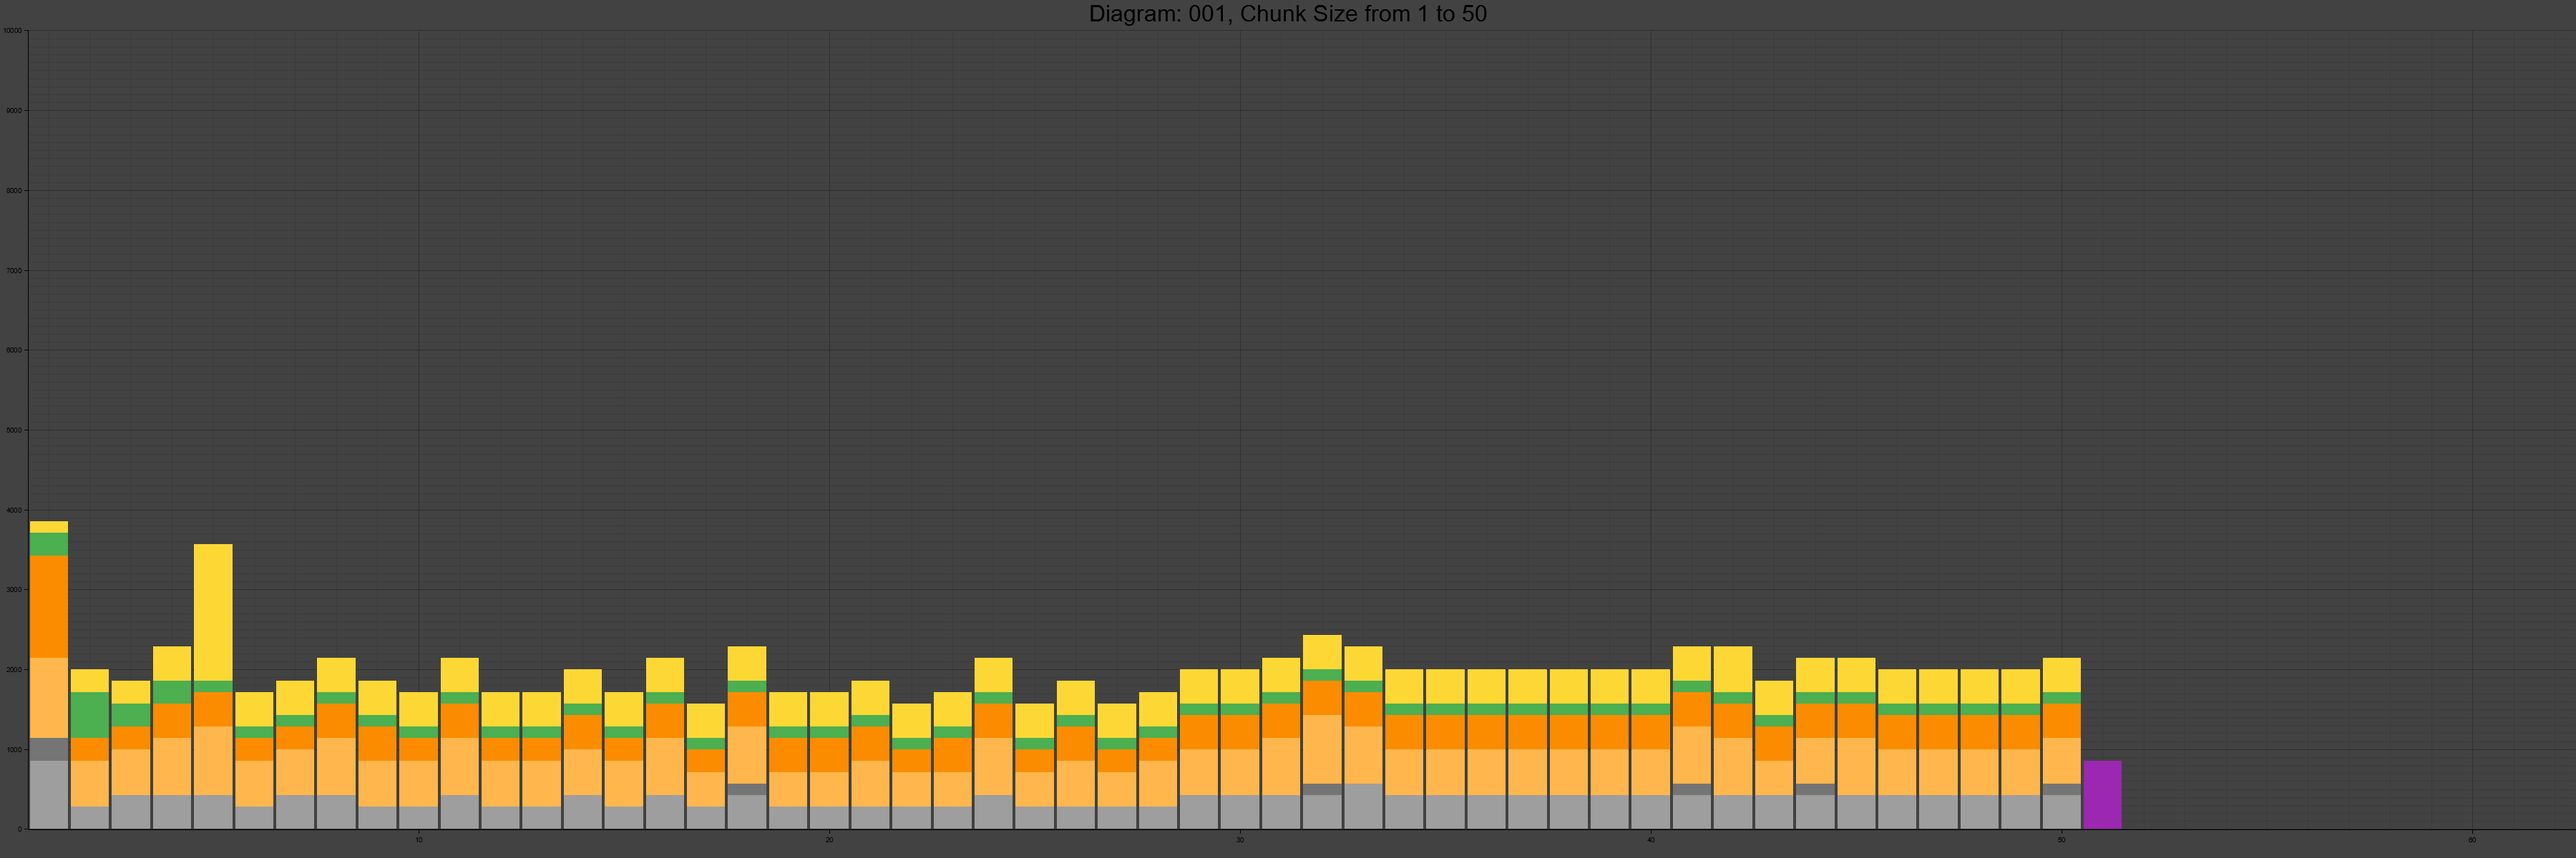
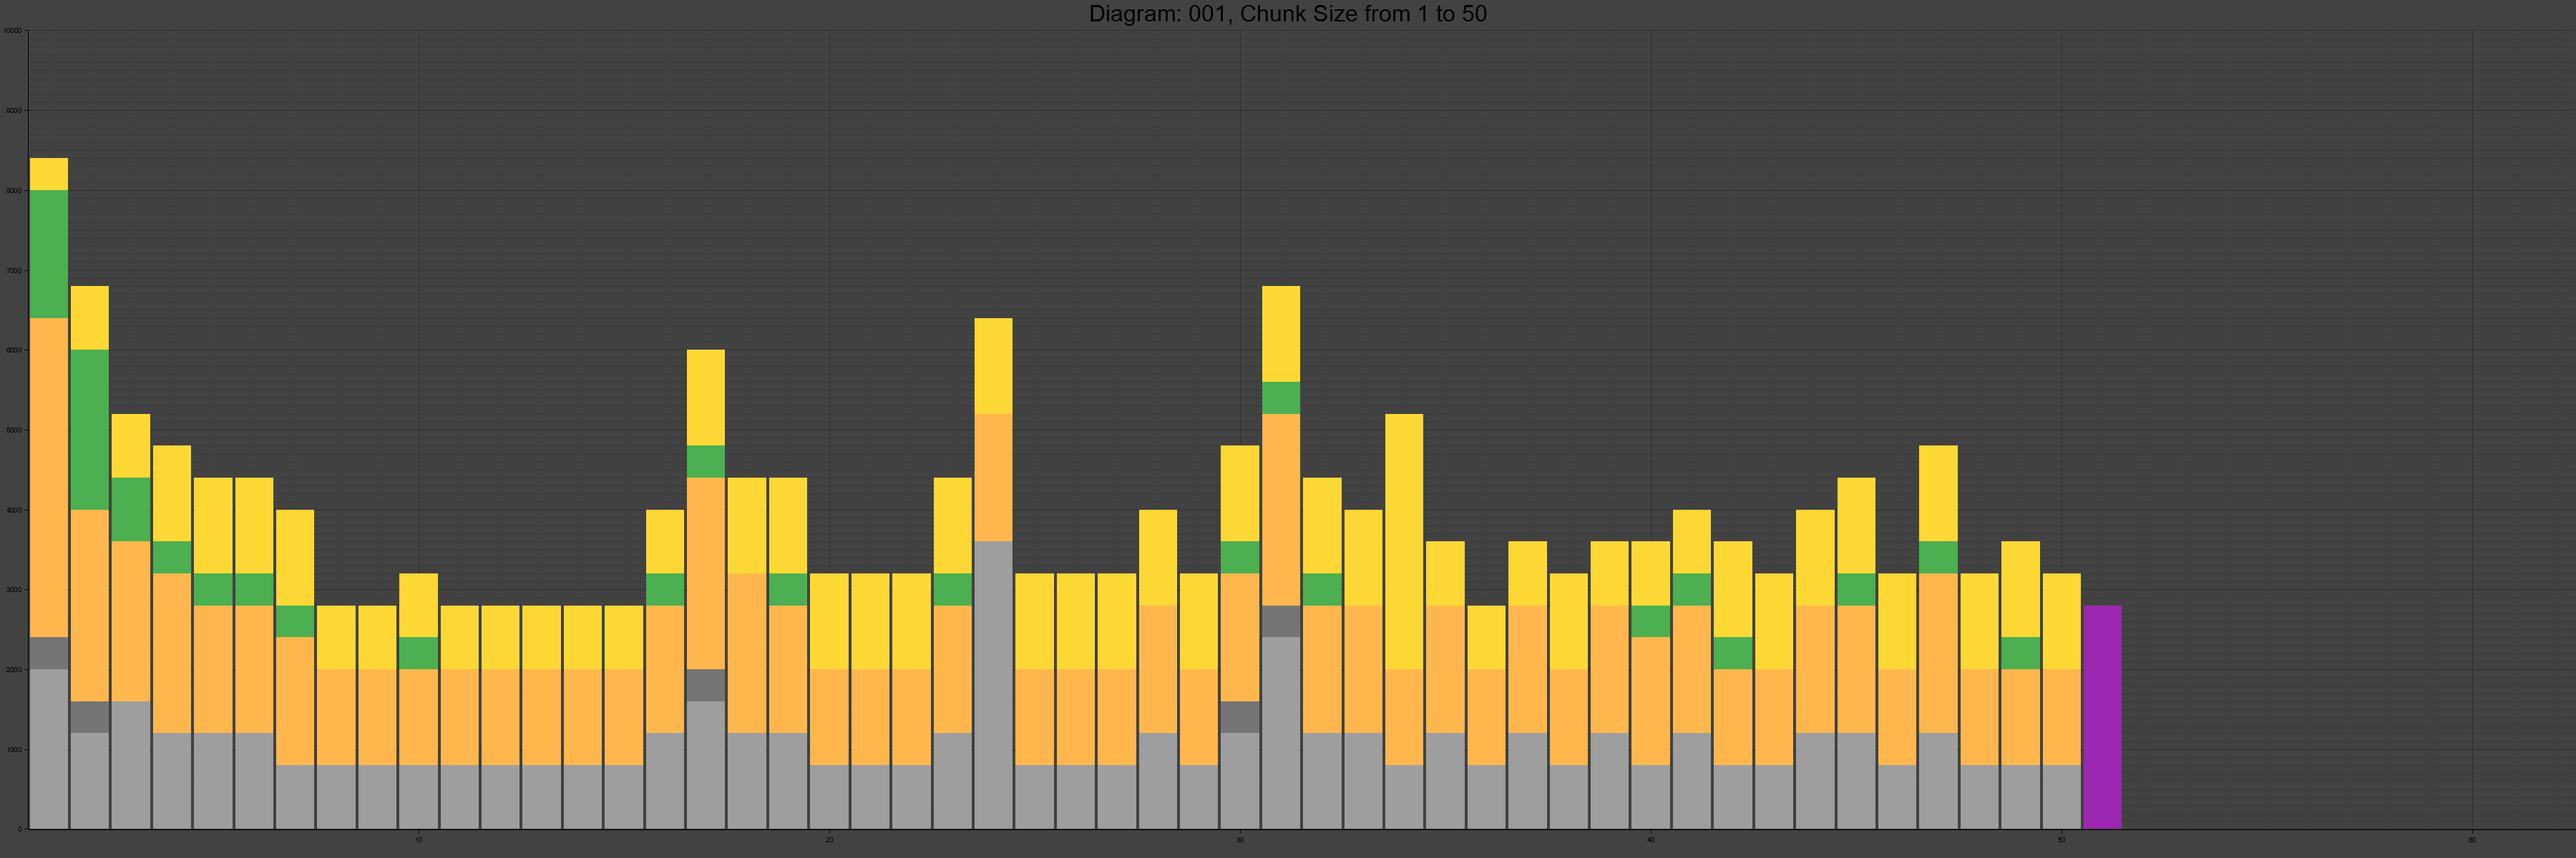
All small FASTA Projects updated

Changed region(s): [[0.0, 0.185, 0.84, 0.9558]]

diff --git a/src/suites/suffix_array.rs b/src/suites/suffix_array.rs
@@ -24,9 +24,9 @@ pub fn main_suffix_array() {
     // let dm = DebugMode::Overview;
     let dm = DebugMode::Silent;
 
-    // suite_complete_on_fasta_file("000", chunk_size_interval, 100, pl, dm);
-    // suite_complete_on_fasta_file("001", chunk_size_interval, 70, pl, dm);
-    // suite_complete_on_fasta_file("002_mini", chunk_size_interval, 100, pl, dm);
+    // suite_complete_on_fasta_file("000", chunk_size_interval, 25, pl, dm);
+    // suite_complete_on_fasta_file("001", chunk_size_interval, 25, pl, dm);
+    // suite_complete_on_fasta_file("002_mini", chunk_size_interval, 30, pl, dm);
     suite_complete_on_fasta_file("002_70", chunk_size_interval, 150_000, pl, dm);
     // suite_complete_on_fasta_file("002_700", chunk_size_interval, 2_100_000, pl, dm);
     // suite_complete_on_fasta_file("002_7000", chunk_size_interval, pl, dm);
